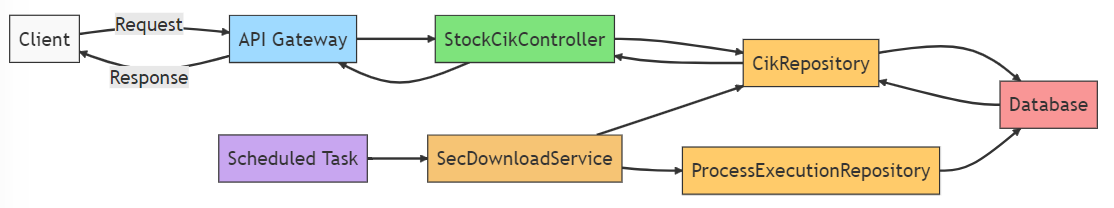
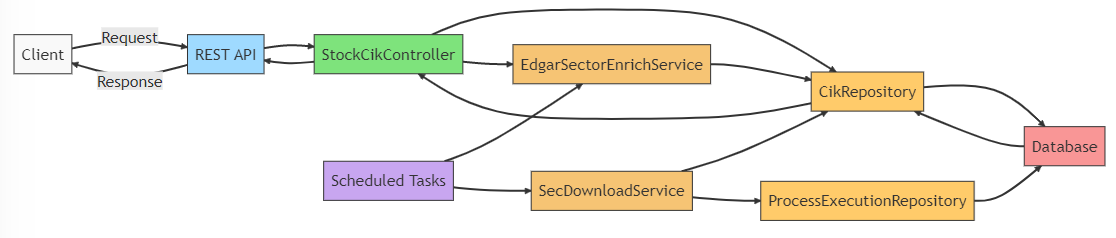
update documentation and diagram

diff --git a/README.md b/README.md
@@ -1,7 +1,7 @@
 # Edgar CIK Downloader
 This project is a Spring Boot-based service that downloads and updates CIK (Central Index Key) data from the SEC (U.S. Securities and Exchange Commission) for public companies. 
 
-The service stores the CIK data in a RDBS (e.g. MySQL) database and supports enrichment with stock exchange information.
+The service stores the CIK data in a RDBMS (e.g. MySQL) database and supports enrichment with stock exchange information.
 
 There are endpoints to retrieve the CIK data by CIK or ticker.
 
@@ -109,6 +109,8 @@ This application keeps track of the last execution time of the CIK data update p
 See:
 
 ![Logs](https://github.com/danielsobrado/edgar-cik-ticker-service/blob/692b99d2d86680d1e86ea77ad3557d6cd33474f1/doc/images/LogsEdgarUpdate.PNG)
+
+Disclaimer: I used chatGPT extensively for this project.
 
 Please feel free to contact me if you have any questions or suggestions.
 
